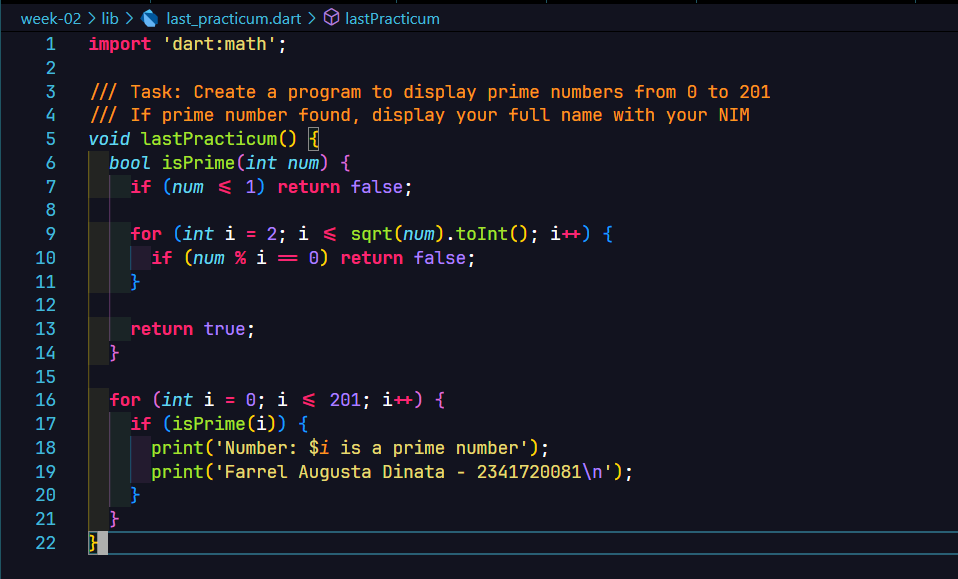
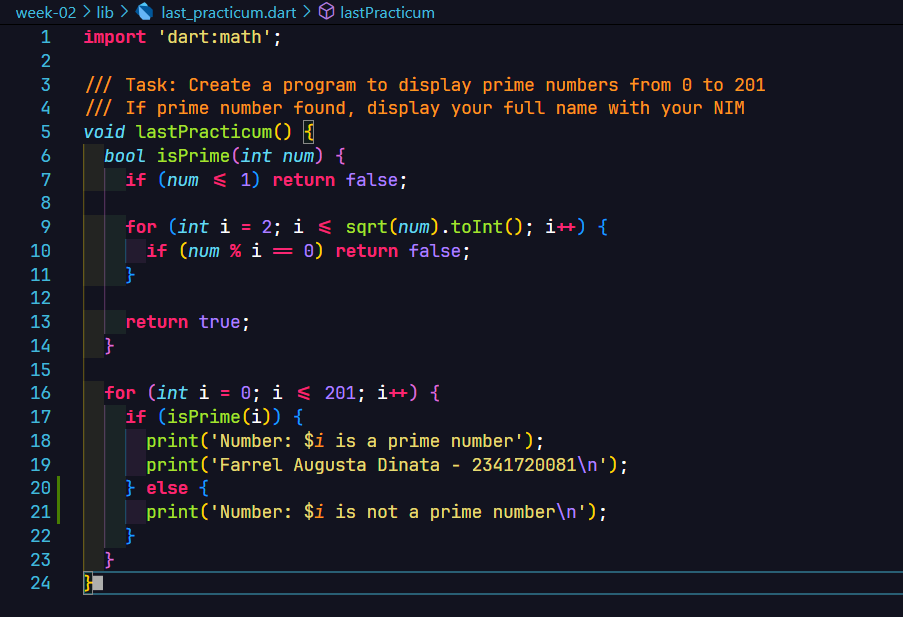
display not a prime number inside looping

diff --git a/week-02/lib/last_practicum.dart b/week-02/lib/last_practicum.dart
@@ -17,6 +17,8 @@ void lastPracticum() {
     if (isPrime(i)) {
       print('Number: $i is a prime number');
       print('Farrel Augusta Dinata - 2341720081\n');
+    } else {
+      print('Number: $i is not a prime number\n');
     }
   }
 }
